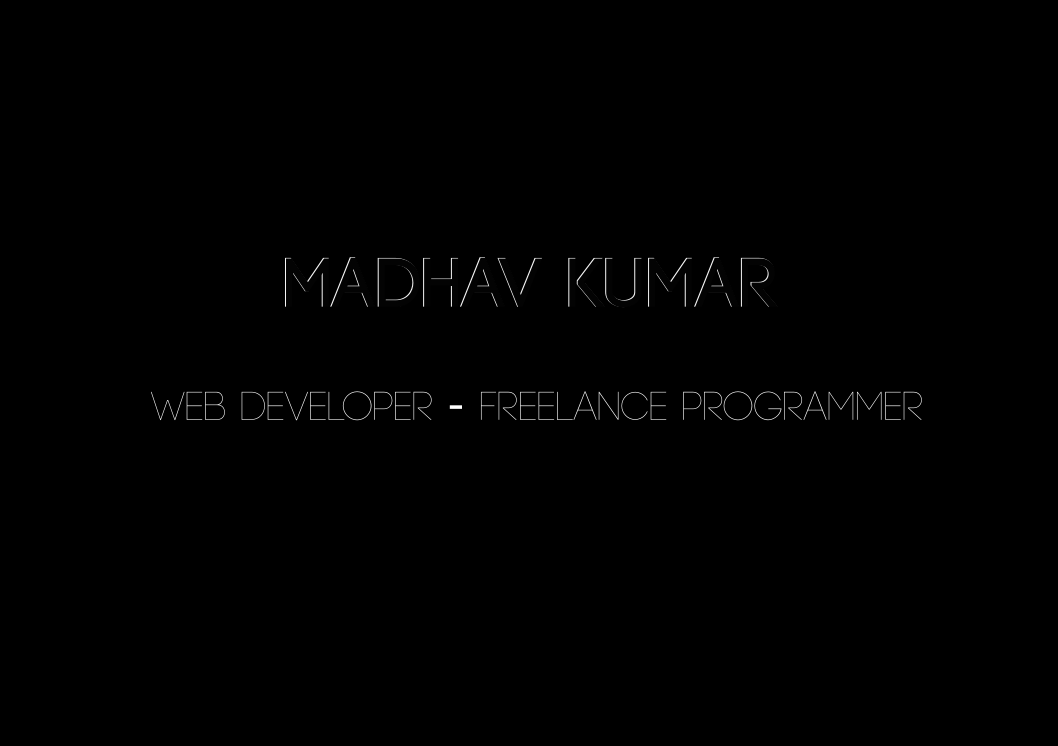
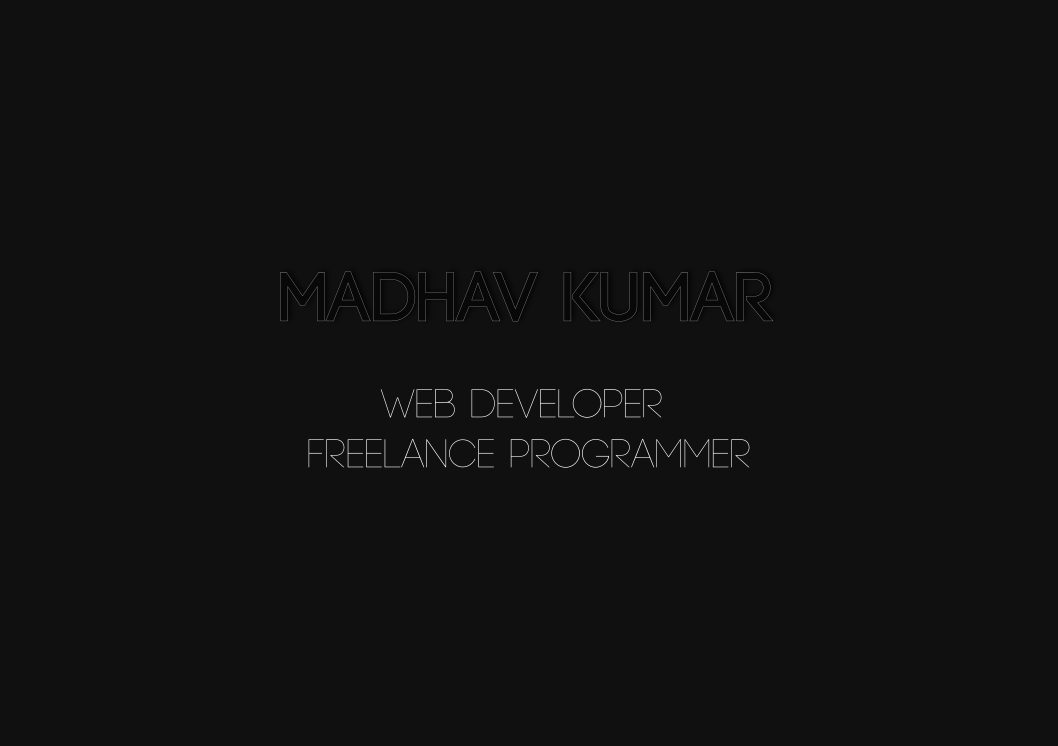
removed true black, changed appearance of card

diff --git a/style.css b/style.css
@@ -1,6 +1,6 @@
 body{
   padding-top: 50px;
-  background-color:#000;
+  background-color:#101010;
   overflow-x: hidden;
   font-family: Raleway, sans-serif;
   color: #FFF;
